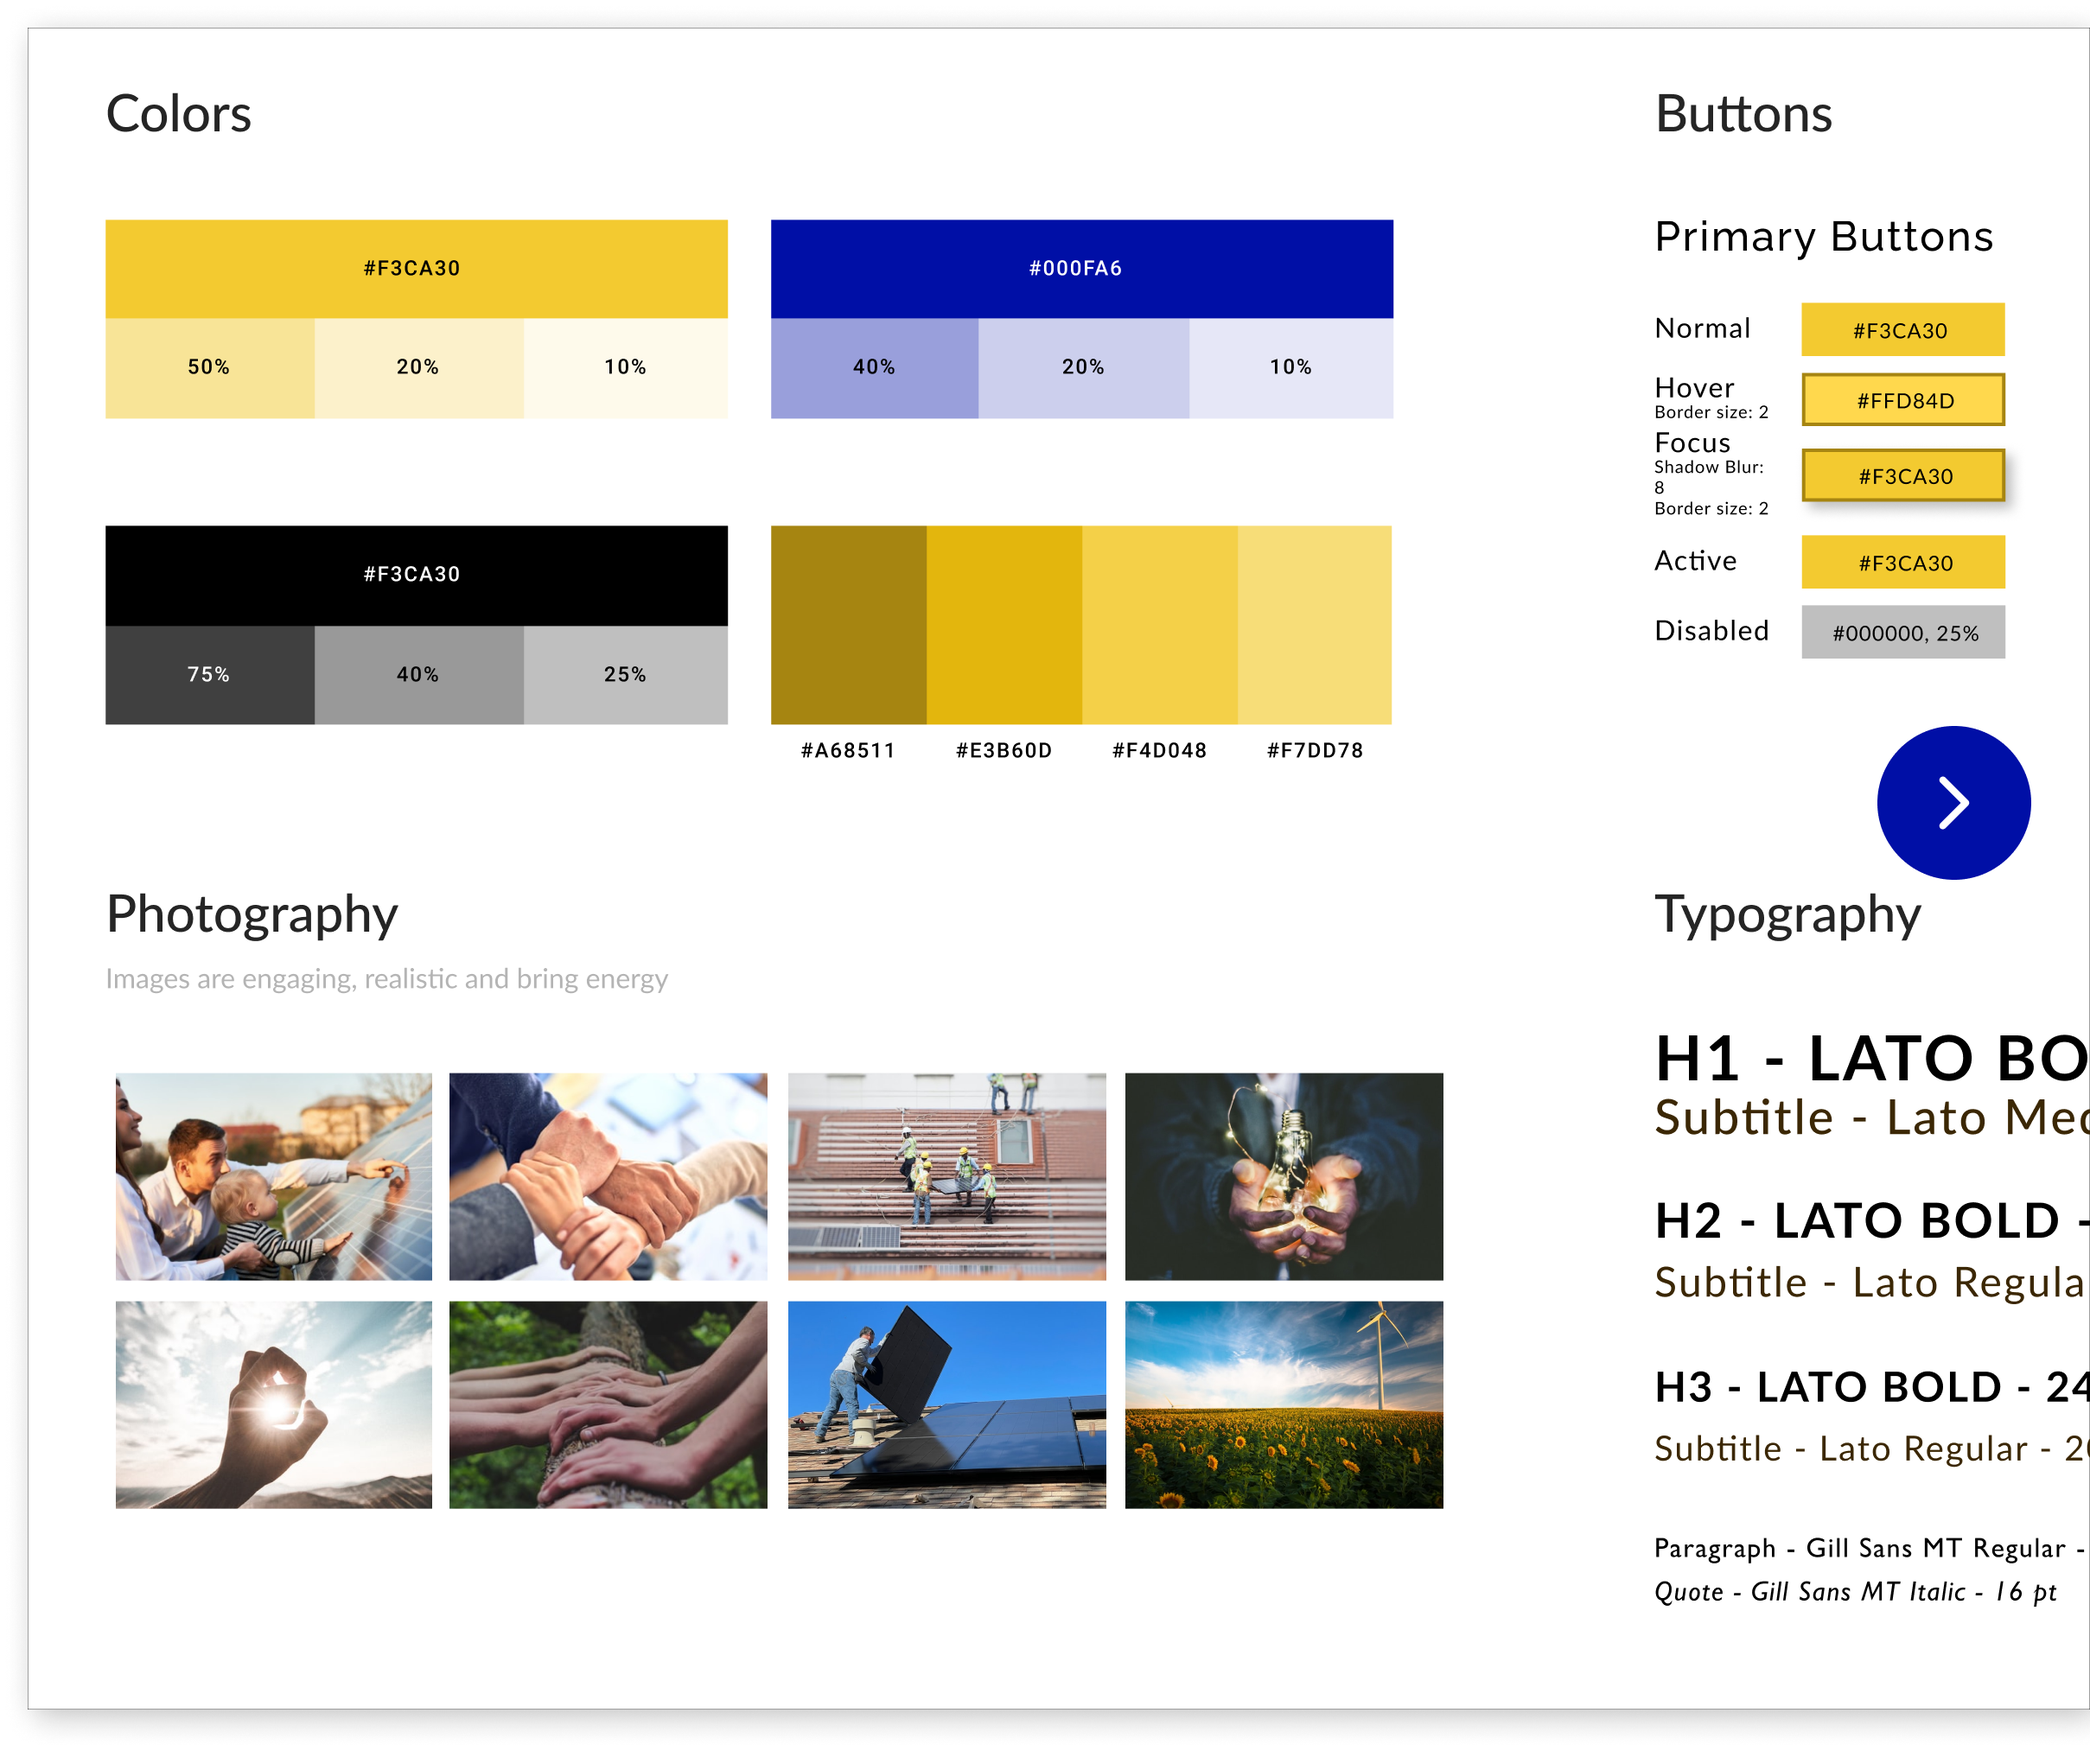
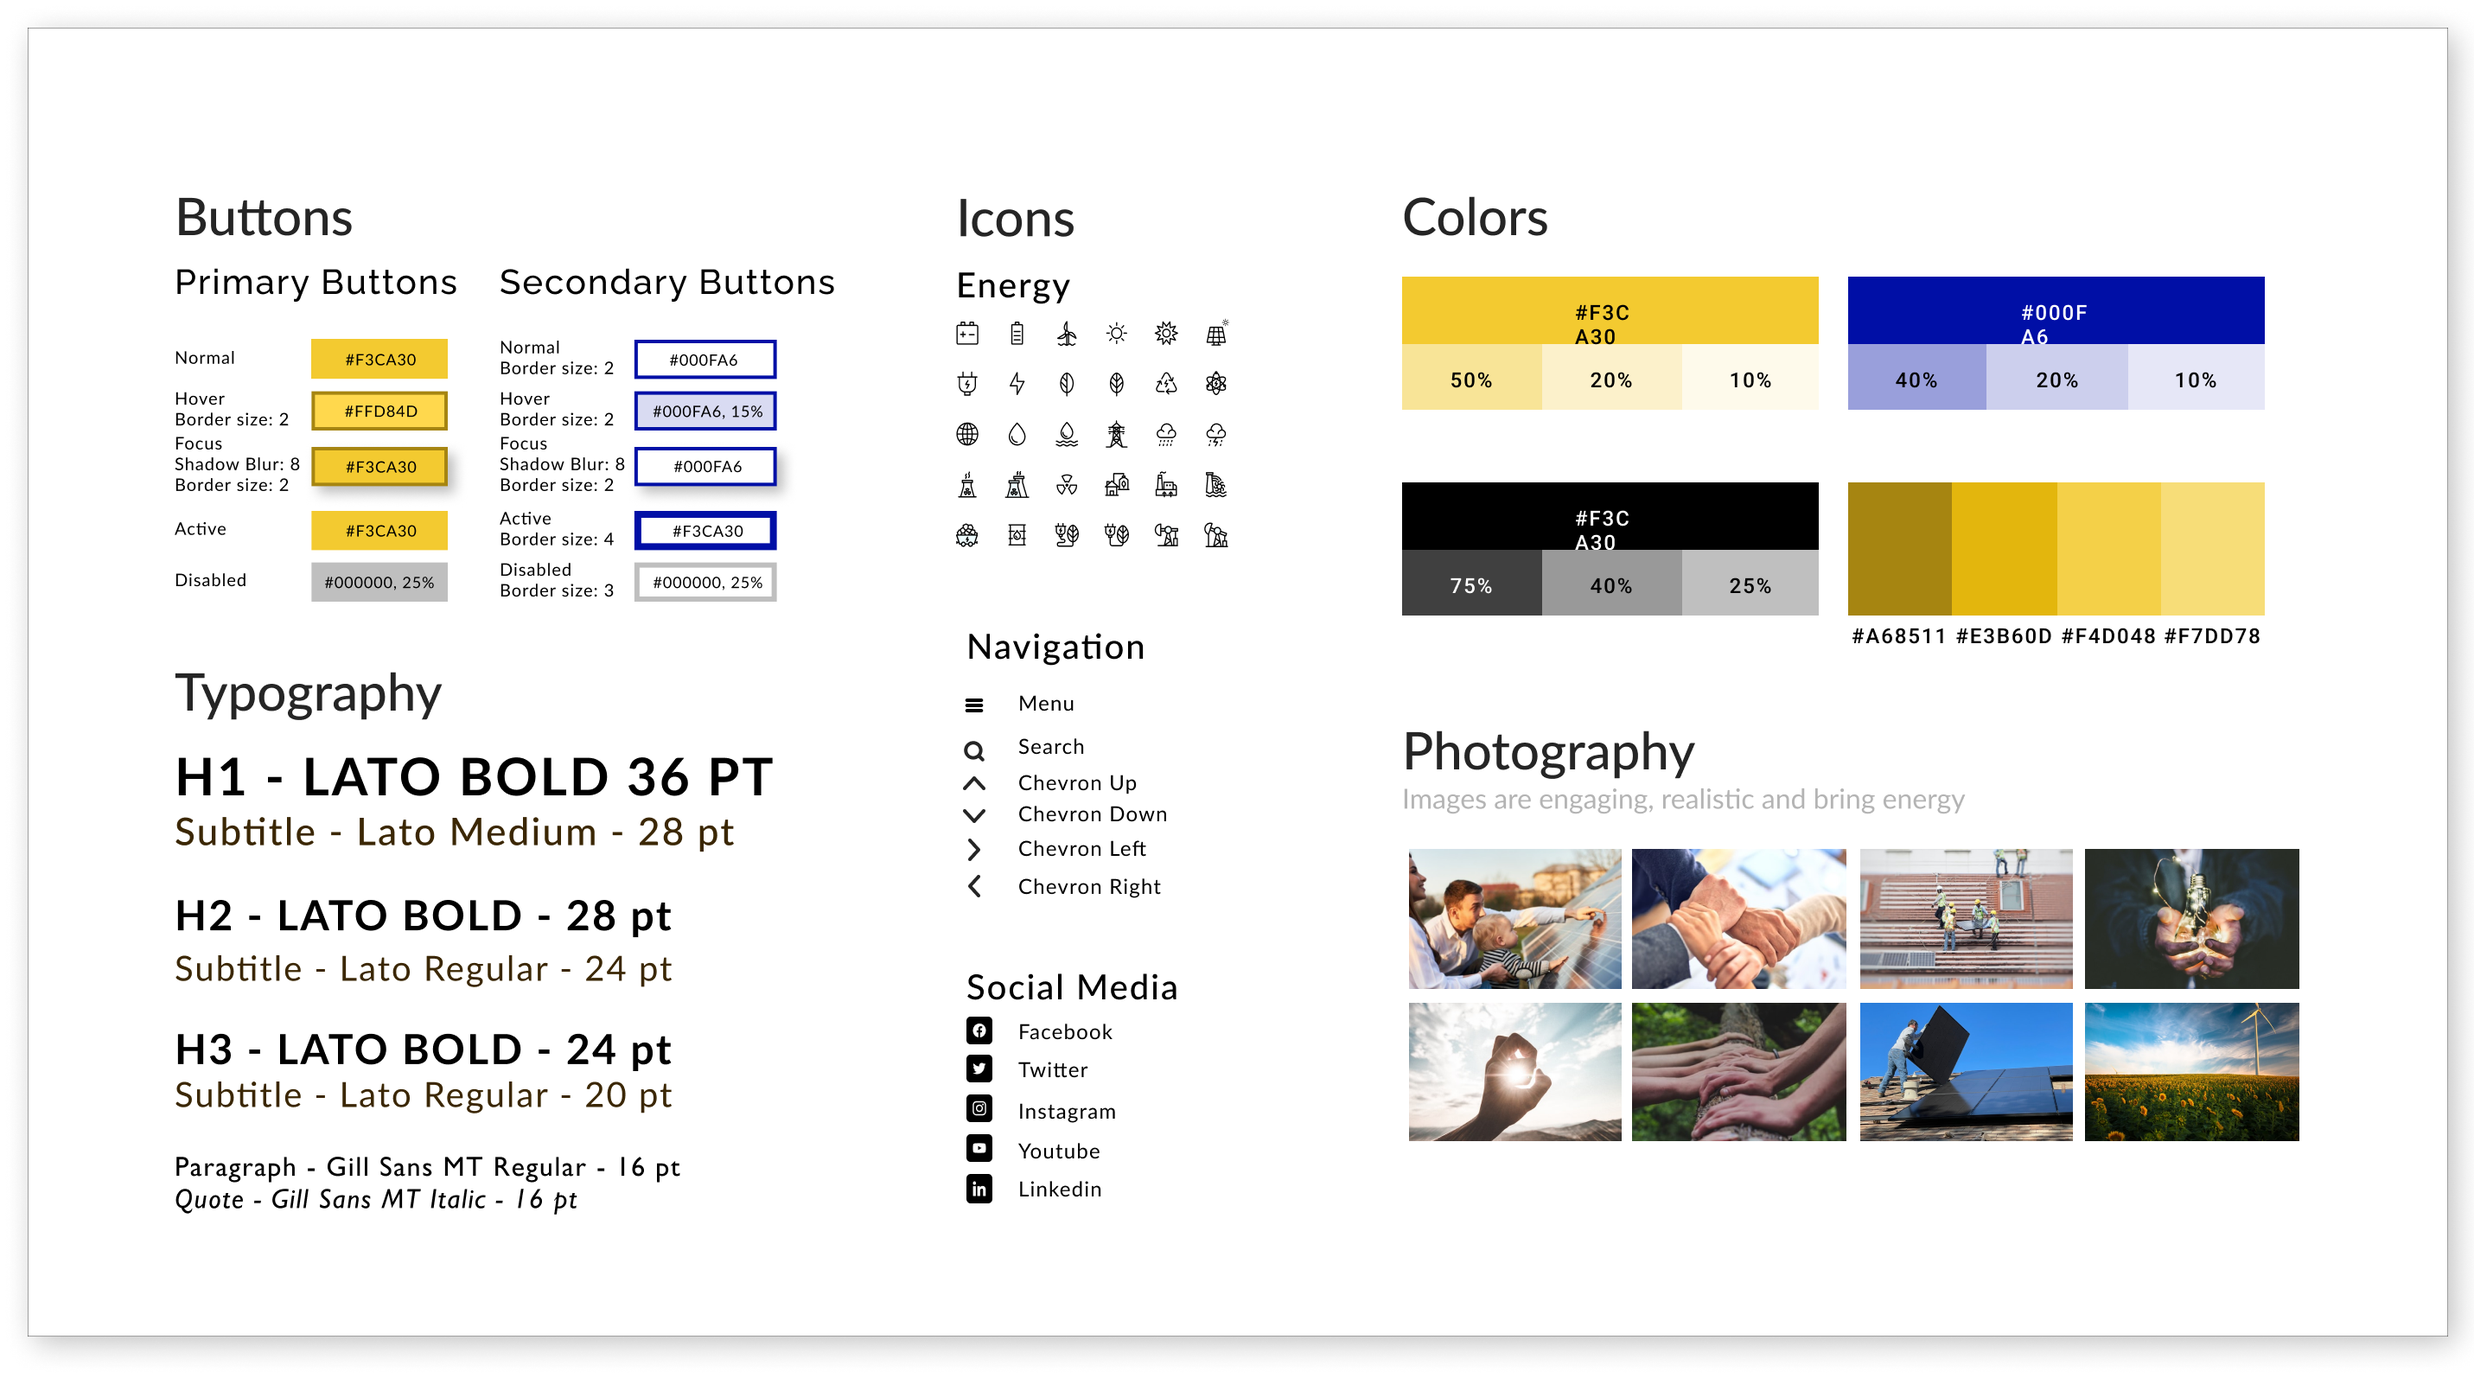
fixed style guide

diff --git a/index.html b/index.html
@@ -535,28 +535,9 @@
 
 <section>
   <h2>Style Guide</h2>
-  <div id="carouselExampleIndicators" class="carousel slide" data-ride="carousel">
-    <ol class="carousel-indicators">
-      <li data-target="#carouselExampleIndicators" data-slide-to="0" class="active"></li>
-      <li data-target="#carouselExampleIndicators" data-slide-to="1"></li>
-    </ol>
-    <div class="carousel-inner">
-      <div class="carousel-item active">
-        <img src="style guide1.png" class="d-block w-100" alt="...">
-      </div>
-      <div class="carousel-item">
-        <img src="style guide2.png" class="d-block w-100" alt="...">
-      </div>
-    </div>
-    <a class="carousel-control-prev" href="#carouselExampleIndicators" role="button" data-slide="prev">
-      <span class="carousel-control-prev-icon" aria-hidden="true"></span>
-      <span class="sr-only">Previous</span>
-    </a>
-    <a class="carousel-control-next" href="#carouselExampleIndicators" role="button" data-slide="next">
-      <span class="carousel-control-next-icon" aria-hidden="true"></span>
-      <span class="sr-only">Next</span>
-    </a>
-  </div>
+  <div class="pictures">
+    <img src="style guide.png" width="900">
+</div>
 </section>
 
 <section>
